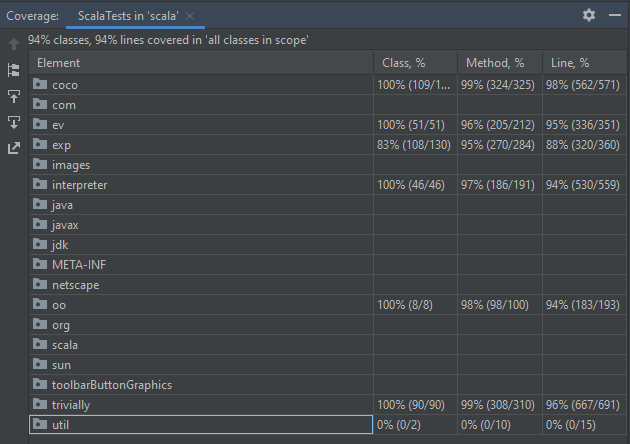
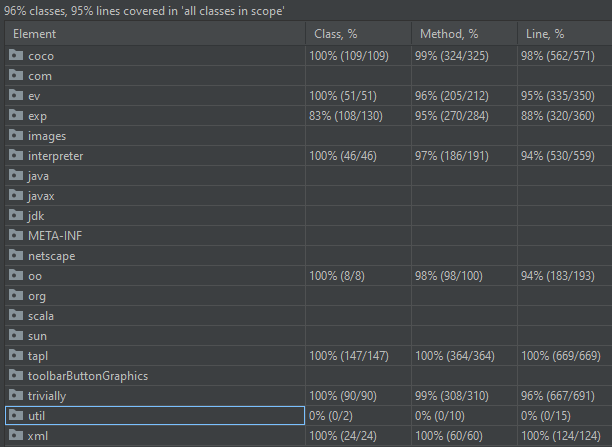
Completed explanation of EP at top-level, incorporated statistics, and updated images.

diff --git a/README.md b/README.md
@@ -76,7 +76,47 @@ To this list we add two more:
   independent code extensions. Merging independent branches must not require changes 
   to an individual branch.
 
-Not every EP solution can achieve all criteria. CoCo does.
+Not every EP solution can achieve all criteria. CoCo does. We use the domain of 
+mathematical expressions to demonstrate the various EP solutions.
+
+![Extension Graph History](documentation/ExpressionDomain.png)
+
+In this domain, a primary development branch (**m0** through **m7**)  adds the following 
+capabilities:
+
+* **m0** starts with an `Add` and `Lit` data types with a supporting operation to evaluate recursive
+expression trees to produce a `double` value.
+* **m1** extends with the `Sub` data type to represent the subtraction of two expressions.
+* **m2** extends with a `PrettyP` operation to produce a human-readable expression with parentheses.
+* **m3** extends with three new data types -- `Mult`, `Neg`, and `Divd`.
+* **m4** extends with a `Collect` operation which collects all literal values in an expression
+tree and a `Simplify` producer operation that performs reasonable mathematical simplications
+to produce a new expression tree: for example, "5 - 0" could be simplified to the literal "5".
+A `Truncate` operation has mutable side effects, replacing expressions at a given level in 
+an expression to a literal containing their evaluated value.
+* **m5** extends with an `AsTree` operation to produce a separate tree-like representation using 
+`Node` and `Leaf` object. The `Id` operation assigns an integer for each data type.
+* **m6** extends with two binary operations. `Equals` converts an expression and its parameter into 
+a tree, using `AsTree`, to determine equality. `Eql` dispatches to its arguments instead.
+* **m7** extends with a `PowBy` producer operation that returns an expression raised to an exponent value.
+
+An independent development effort had split off from the **m2** evolution, leading to:
+
+* **alt1** extends **m2** by adding a `MultBy` producer operation that returns an expression
+mnultiplied by an expression.
+* **alt2** extends **alt1** by adding a new `Power` data type representing an expression raised
+to the power of another expression.
+  
+These two developments efforts are merged together by **m7alt2** which provides the necessary
+artifacts to ensure that every possible (data type, operation) pair has an implementation. In 
+some cases, the result is greatly simplified: for example, now that `Power` and `PowBy` exist 
+at the same time, the `PowBy` operation is replaced with logic to create a `Power` instance.
+Similarly, `Mult` and `MultBy` final coexist and a similar simplification takes place. The 
+existing binary operations, `Eql` and `Equals` now must contend with a new data type from an
+independent effort.
+
+This case study truly represents a non-trivial exploration of the expression problem.
+In addition, we include a significant collection of test cases to ensure code coverage.
 
 ## Launching the Benchmarks
 
@@ -99,8 +139,8 @@ literature, including:
     https://cs.pomona.edu/~kim/ftp/WOOD.pdf
   * Strawman Object-oriented implementation, which is decidedly *NOT* a solution to EP
 
-Two CoCo implementations are provided to the Expression Problems -- one in Java and the 
-other in Scala. In addition, the example problem from the paper is provided as a domain.
+Two CoCo implementations are provided in multiple languages -- Java, Scala and C#. 
+In addition, the example problem from the paper is provided as a domain.
 
 ## Runtime Benchmark results
 
@@ -143,6 +183,63 @@ table shows the runtime performance based on the depth of the tree.
 
 The table demonstrates that CoCo offers similar performance to "The Expression Problem, Trivially"
 while supporting producer and binary methods, in addition to independent branching and merging.
+
+## Code Statistics
+
+Using the cloc tool (https://github.com/AlDanial/cloc) the following are the statistics 
+for all code in this project
+
+### All Code
+
+| Language | files  | blank  |  comment  | code  |
+| -------- |  ----- | -----  |  -------- | ------|
+| Java     | 655    | 3242   | 106       | 11248 |
+| C#       | 140    | 345    | 5         | 1970  |
+| Scala    | 25     | 299    | 14        | 1094  |
+||
+| Sum      | 820    | 3886   | 125       | 14312 |
+github.com/AlDanial/cloc v 1.88  T=0.29 s (2793.9 files/s, 62429.1 lines/s)
+
+### Just Tests
+| Language | files  | blank  |  comment  | code  |
+| -------- |  ----- | -----  |  -------- | ------|
+| Java     | 566    | 2450   | 90        | 8119 |
+| C#       | 129    | 245    | 2         | 1494  |
+| Scala    | 13     | 151    | 11        | 565  |
+||
+| Sum      | 708    | 2846   | 103       | 10178 |
+
+
+### Just Expression Problem code (excluding tests)
+
+This covers CoCo, Extensible Visitor, Interpreter Design Pattern, Trivially, and OO.
+
+| Language | files  | blank  |  comment  | code  |
+| -------- |  ----- | -----  |  -------- | ------|
+| Java     | 128    | 536    | 2         | 1653 |
+| C#       | 129    | 245    | 2         | 1494 |
+| Scala    | 13     | 151    | 11        | 565  |
+||
+| Sum      | 270    | 932    | 15        | 3712 |
+
+### Just XML example domain (excluding tests)
+
+| Language | files  | blank  |  comment  | code  |
+| -------- |  ----- | -----  |  -------- | ------|
+| Java     | 30    | 124    | 0         | 412 |
+||
+| Sum      | 30    | 124    | 0        | 412 |
+
+### TAPL domain (excluding tests)
+
+| Language            | files  | blank  |  comment  | code  |
+| --------            |  ----- | -----  |  -------- | ------|
+| non-finalized Java  | 99    | 219    | 0         | 825 |
+| finalized Java      | 93    | 193    | 2         | 862
+||
+| Sum                 | 192    | 432    | 2        | 1687 |
+
+The finalized Java code is boilerplate Java code. The non-finalized Java code is not. 
 
 ## Code Coverage
 

diff --git a/tapl/src/main/java/tapl/README.md b/tapl/src/main/java/tapl/README.md
@@ -1,38 +1,36 @@
 # Introduction
 
-The TAPL book explain the context. An oCAML implementation
+This case study is based on an example from the following book:
 
-Include citation to EVF/Castor paper
+   "Types and Programming Languages" (TAPL) 
+    Benjamin C. Pierce (2002)
+    MIT Press, https://www.cis.upenn.edu/~bcpierce/tapl
 
-Demonstrates a whole family of domains that evolve
+Both the Extended Visitor Framework (2017) and Castor framework for
+extensible generative visitors (2020) reproduce work from the TAPL book. 
 
-Starting points can be Nat or bool or floatstring or varapp
+The extensive case study demonstrates a whole family of domains that can evolve
+to add new features and capabilities. Our TAPL case study is a subset of the EVF/Castor
+case studies involving the following domains:
 
-arith combines Nat and bool with datatype (check for iszero to support if then else on natural numbers)
-
-varapp combines variables and application of terms 
-
-let adds let bindings to varapp
-
-lambdacalculus extends varapp to add lambda functions
-
-typed replicates entire hierarchy with the addition of types in the syntax trees.
+* `Nat`, `bool`, `floatstring`, or `varapp`
+* `arith` combines `Nat` and `bool` with ability to check for `iszero` to support if
+  then else on natural numbers
+* `let` combines variables and application of terms
+* `lambdacalulus` extends varapp to add lambda functions
+* `typed` replicates entire hierarchy with the addition of types in the syntax trees
 
 We didn't have to reimplement any of the previous modules because CoCo can easily 
 add data to existing data structures. The only other approach that could support
-this is Growing Trees in Haskell [paper-ref]. 
-
-Grab image of these domains from their paper.
-
-This is a subset of the EVF case study.
+this is Growing Trees in Haskell (2017). 
 
 # Modularity issues
 
-The original EVF has modularity violations where  CoCo does not.
+The original EVF case study has modularity violations where CoCo does not.
 
-Our prettyp print function produces a string whereas theirs has to deal with 
-variable binding even when there is no binding available in the compiler hierarchy
-currently selected.
+In particular, our prettyp print function produces a string whereas theirs has 
+to deal with variable binding even when there is no binding available in the
+compiler hierarchy currently selected.
 
 # Testing
 
@@ -61,3 +59,24 @@ The CoCo implementation has no side effects and uses clone/update functions by d
 to stay as close to the functional implementation from EVF and the TAPL book. It is 
 not a limitation of CoCo, which could have used setters as demonstrated in the 
 mathematical expression domain (in particular, the Truncate operation).
+
+# References
+
+* EVF: an extensible and expressive visitor framework for programming language reuse.
+  Weixin Zhang and Bruno C. d. S. Oliveira (2017).
+  In Peter Müller, editor, 31st European Conference on Object789 Oriented Programming, 
+  ECOOP 2017, June 19-23, 2017, Barcelona, Spain, volume 74 of LIPIcs, pages 29:1–29:32. 
+  Schloss Dagstuhl - Leibniz-Zentrum für Informatik, 2017. 
+  URL:https://doi.org/10.4230/LIPIcs.ECOOP.2017.29
+  http://dx.doi.org/doi:10.4230/LIPIcs.ECOOP.2017.29
+  
+* Castor: Programming with extensible generative visitors.
+  Weixin Zhang and Bruno C. d. S. Oliveira (2020).
+  Sci. Comput. Program., 193:102449
+  URL: https://doi.org/10.1016/j.scico.2020.102449
+  http://dx.doi.org/10.1016/j.scico.2020.102449
+  
+* Trees that Grow.
+  Shayan Najd and Simon Peyton Jones
+  Journal of Universal Computer Science, vol. 23, no. 1 (2017), 42-62
+  https://www.microsoft.com/en-us/research/publication/trees-that-grow/

diff --git a/coco/src/main/java/coco/ep/README.md b/coco/src/main/java/coco/ep/README.md
@@ -6,7 +6,8 @@ existing code with each successive evolution.
 
 # EP Violations
 
-Modifies code.
+All code is modified in place, so this is not (and never was considered to be) a solution
+to the EP problem.
 
 # Miscellaneous
 
